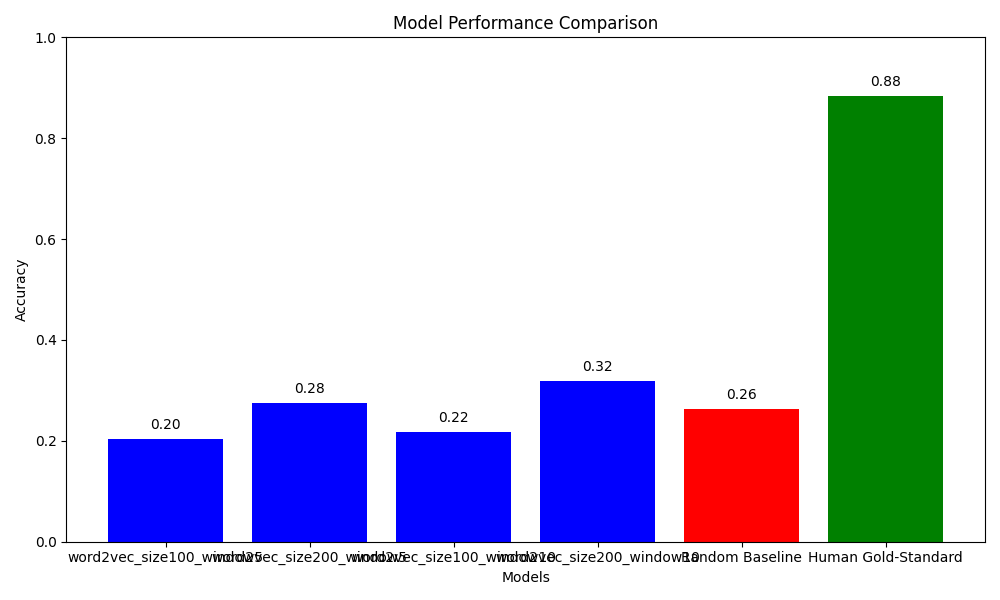
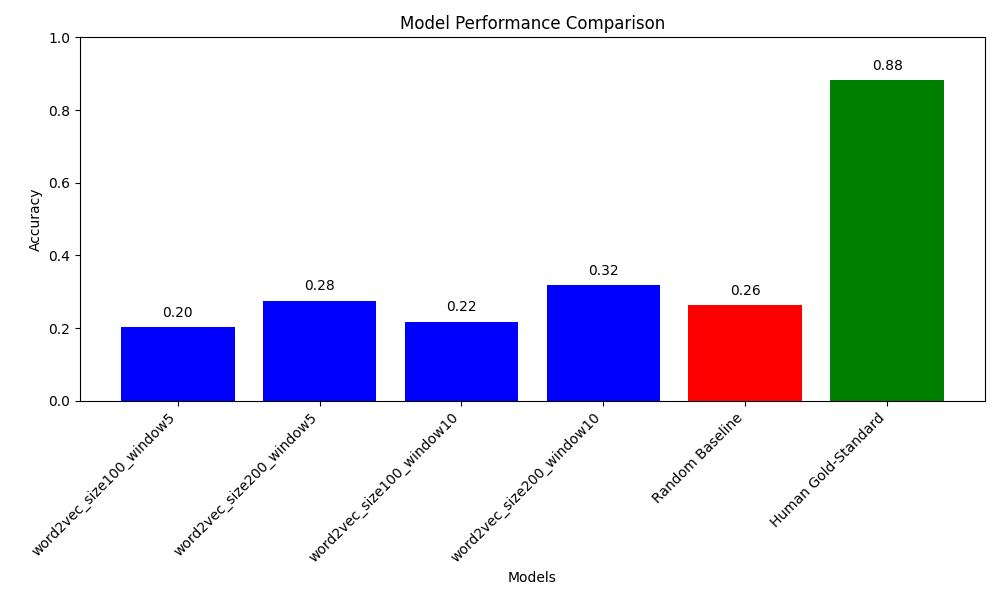
README & Graph fix

diff --git a/graphs.py b/graphs.py
@@ -20,7 +20,6 @@ def read_random_baseline_accuracy(file_path='random_baseline_accuracy.txt'):
     with open(file_path, 'r') as f:
         return float(f.read())
 
-# Use this function to get the random baseline accuracy
 random_baseline_accuracy = read_random_baseline_accuracy()
 
 human_gold_standard_accuracy = 0.8828
@@ -31,17 +30,21 @@ accuracies.extend([random_baseline_accuracy, human_gold_standard_accuracy])
 
 # Generate the bar graph
 plt.figure(figsize=(10, 6))
-plt.bar(models, accuracies, color=['blue', 'blue', 'blue', 'blue', 'red', 'green'])
+bars = plt.bar(models, accuracies, color=['blue', 'blue', 'blue', 'blue', 'red', 'green'])
 plt.xlabel('Models')
 plt.ylabel('Accuracy')
 plt.title('Model Performance Comparison')
 plt.ylim([0, 1])
 
-# Add the accuracy values on top of the bars
-for i, accuracy in enumerate(accuracies):
-    plt.text(i, accuracy + 0.02, f'{accuracy:.2f}', ha='center')
+# Rotate the x-axis labels to prevent overlap
+plt.xticks(rotation=45, ha='right')  # Rotate labels and adjust alignment
 
-# Save the graph
+# Add the accuracy values on top of the bars
+for bar in bars:
+    yval = bar.get_height()
+    plt.text(bar.get_x() + bar.get_width()/2, yval + 0.02, f'{yval:.2f}', ha='center', va='bottom')
+
+# Adjust layout to make room for the rotated x-axis labels
 plt.tight_layout()
 plt.savefig('model_comparison.png')
 plt.show()

diff --git a/README.md b/README.md
@@ -1,4 +1,4 @@
-# AI Assignment 1 - COMP 472
+# AI Assignment 2 - COMP 472
 
 ## Introduction
 This project explores Natural Language Processing (NLP) through the application of various word embeddings using the word2vec library. It was developed for the Artificial Intelligence Class COMP 472.
